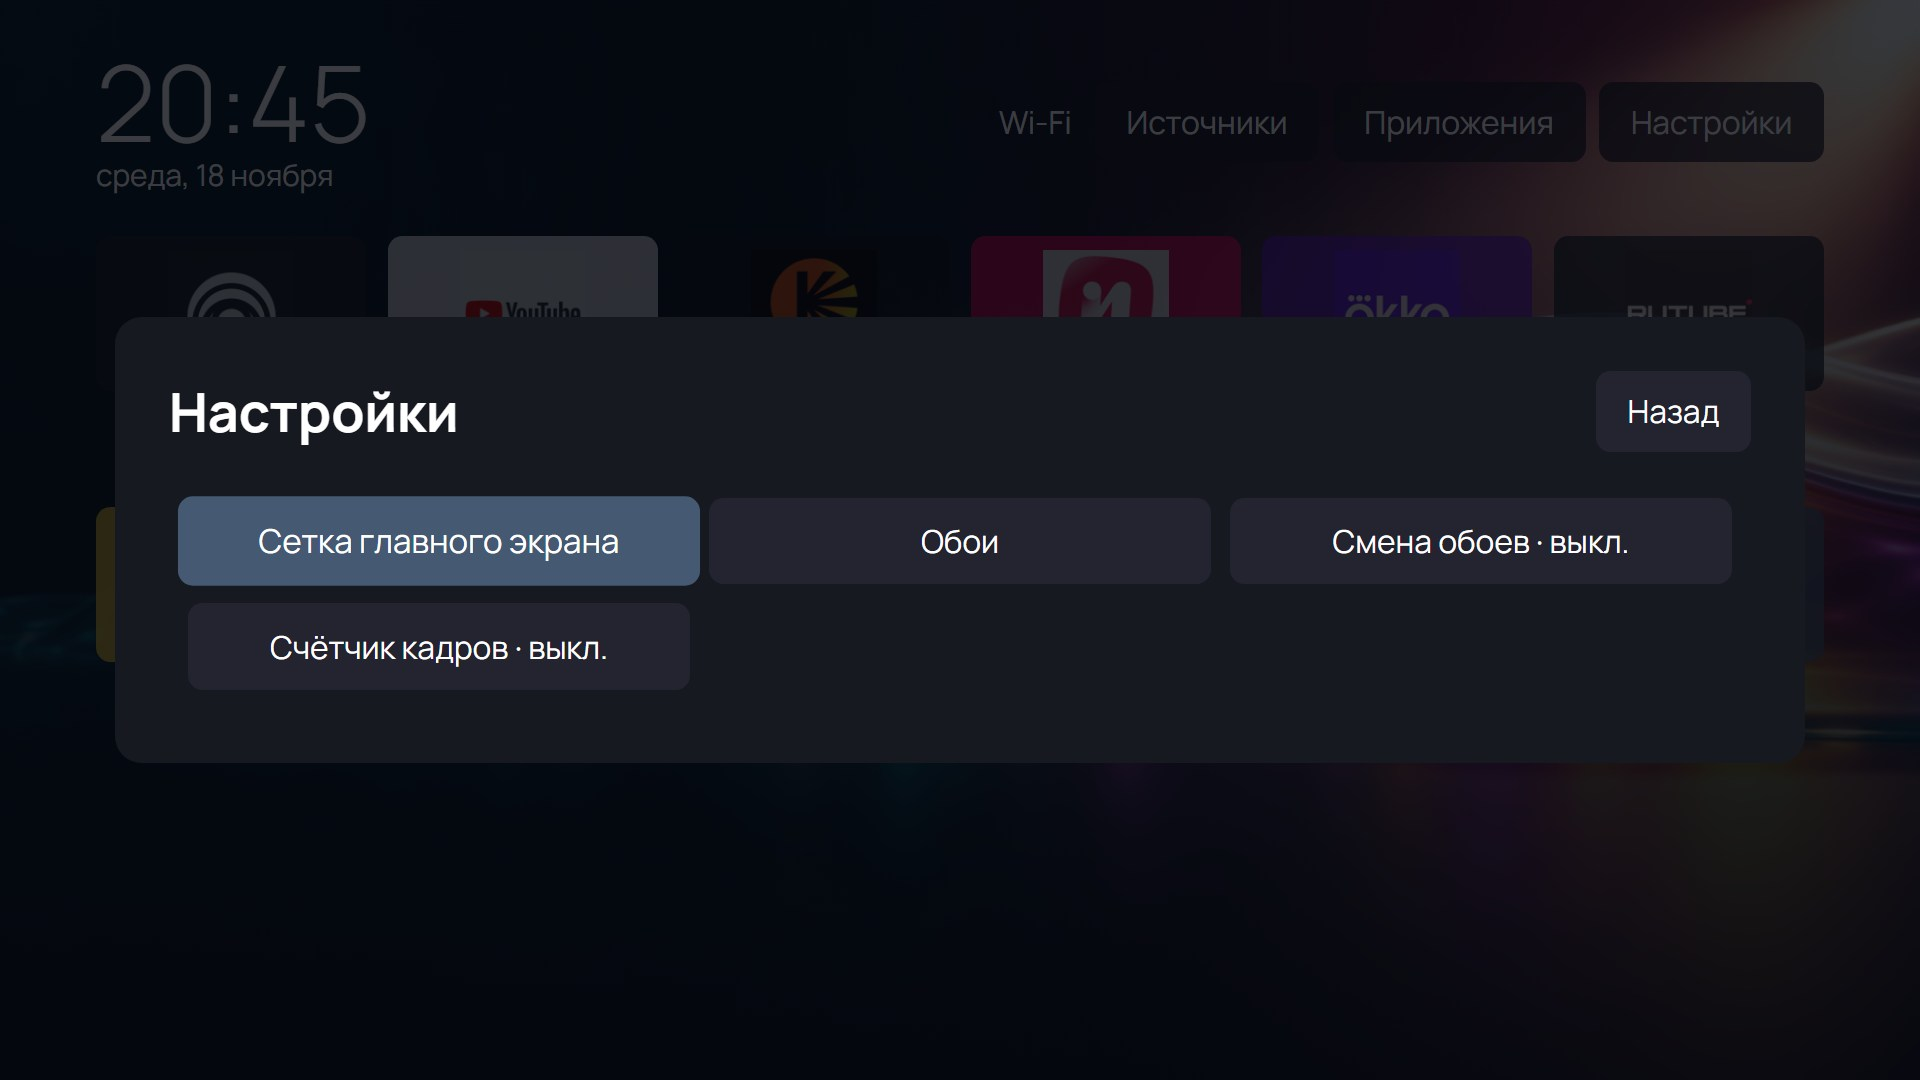
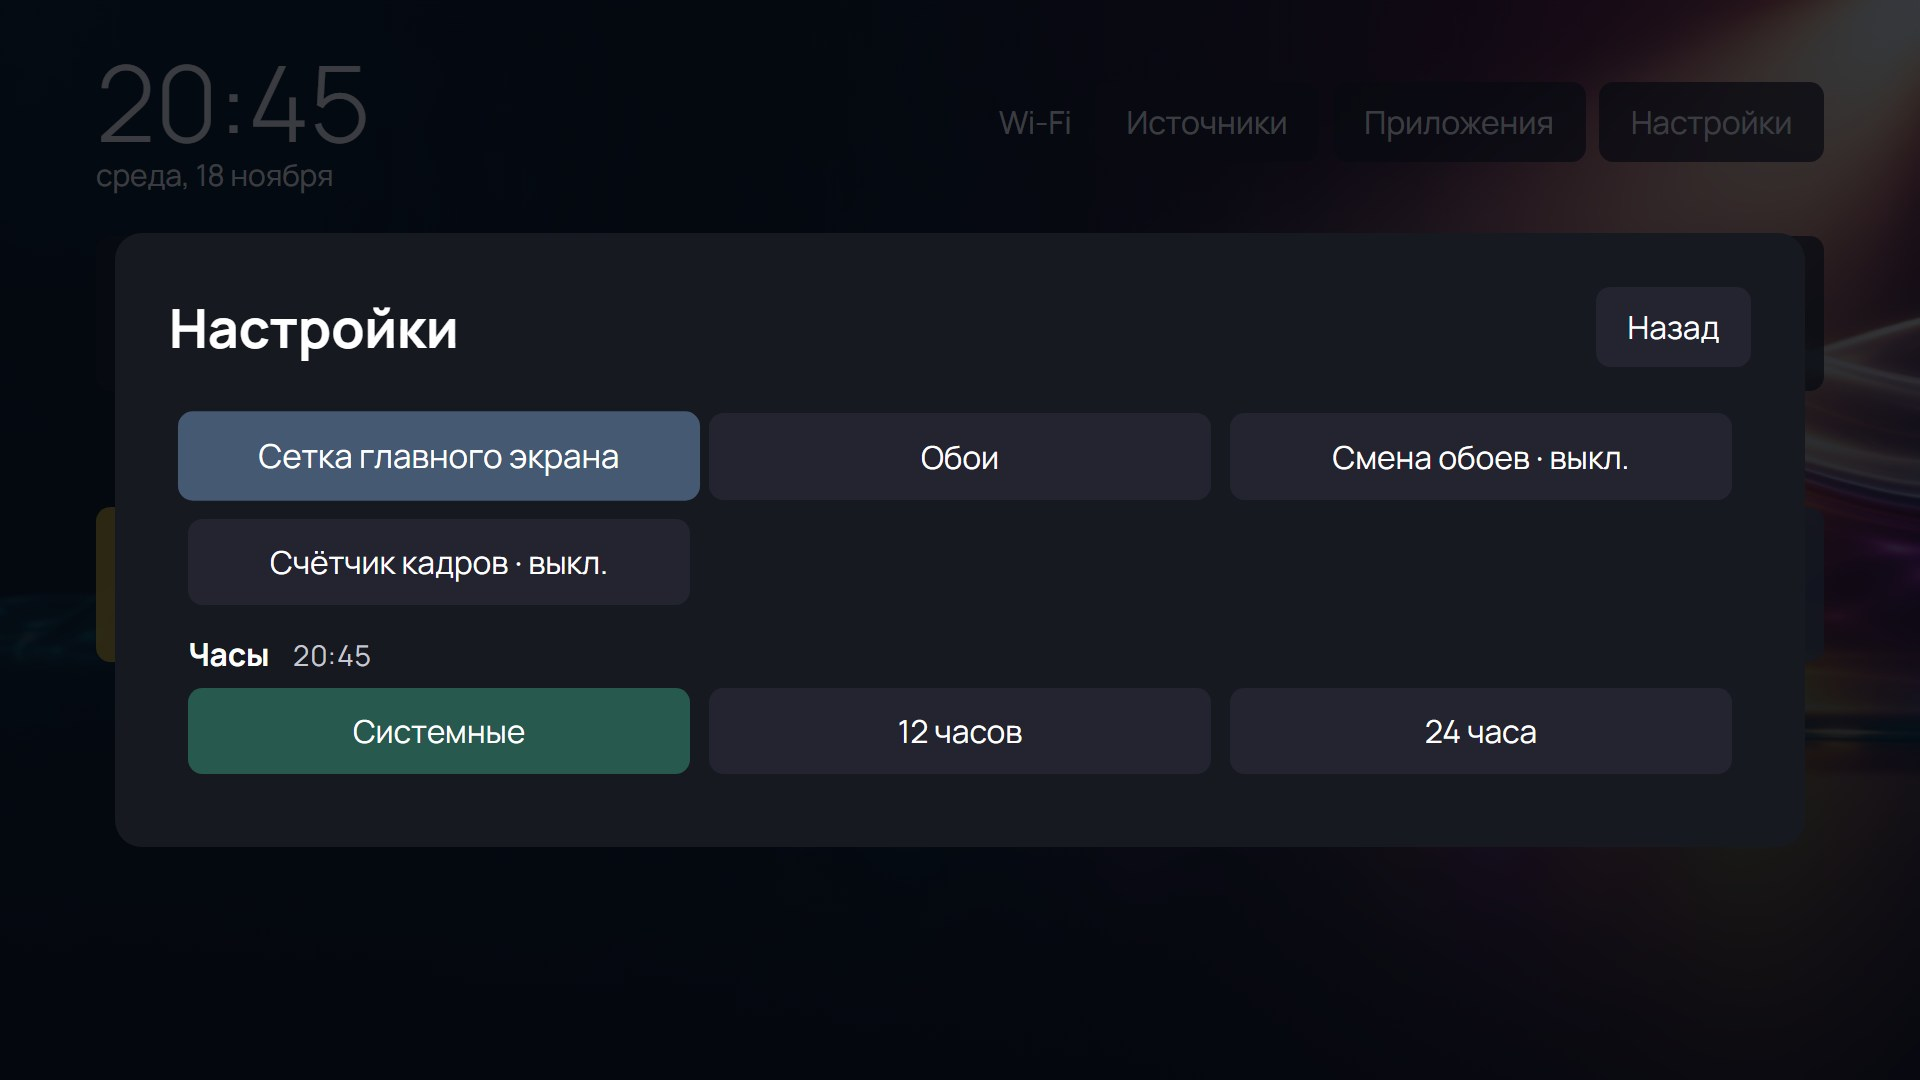
Restore clock format controls and live time preview on Android TV and webOS

diff --git a/webos/app/app.js b/webos/app/app.js
@@ -140,9 +140,66 @@
       if (view==='inputs') showInputs();
     });
   }
+  var systemClock, formatLocale, clockRevision=0, clockWrite=Promise.resolve();
+  function selectedClock() {
+    return pref.clockFormat==='12' || pref.clockFormat==='24' ? pref.clockFormat : 'system';
+  }
+  function formattedTime(date) {
+    var mode=selectedClock();
+    if(mode==='system')mode=systemClock;
+    var options={hour:'numeric',minute:'2-digit'};
+    var hours=date.getHours(), minutes=('0'+date.getMinutes()).slice(-2);
+    if(mode==='24')return ('0'+hours).slice(-2)+':'+minutes;
+    if(mode==='12')return (hours%12 || 12)+':'+minutes+(hours<12?' AM':' PM');
+    return date.toLocaleTimeString(formatLocale || undefined,options);
+  }
+  async function refreshClockFormat() {
+    var revision=++clockRevision;
+    try {
+      if(device) {
+        await clockWrite;
+        var info=await device.clock();
+        if(revision!==clockRevision)return;
+        pref.clockFormat=info.mode;
+        systemClock=info.system;
+      } else {
+        var reply=await service('getSystemSettings',{keys:['localeInfo']},'luna://com.webos.settingsservice');
+        if(revision!==clockRevision)return;
+        var locale=reply.settings && reply.settings.localeInfo;
+        if(locale) {
+          systemClock=locale.clock;
+          var tag=locale.locales && locale.locales.FMT;
+          if(tag) {
+            try {formatLocale=new Intl.DateTimeFormat(tag.replace(/_/g,'-')).resolvedOptions().locale;} catch (_) {}
+          }
+        }
+      }
+    } catch (_) { /* Use the web engine's local format if the platform service is unavailable. */ }
+    clock();
+  }
+  function chooseClock(mode) {
+    if(!device && selectedClock()===mode)return;
+    var revision=++clockRevision;
+    pref.clockFormat=mode;
+    if(device) {
+      clockWrite=clockWrite.then(function(){return device.setClock(mode);}).catch(function(){
+        if(revision===clockRevision) {
+          say('Не удалось сохранить формат часов.');
+          refreshClockFormat();
+        }
+      });
+    } else save();
+    clock();
+  }
   function clock() {
     if(selected && captionTime)captionTime.textContent=elapsed(selected);
-    var d = new Date(); $('time').textContent = d.toLocaleTimeString('ru-RU',{hour:'2-digit', minute:'2-digit',hour12:false});
+    var d = new Date(), shown=formattedTime(d); $('time').textContent=shown;
+    if($('clock-example')) {
+      $('clock-example').textContent=shown;
+      $('clock-options').querySelectorAll('button').forEach(function(el){
+        el.setAttribute('aria-pressed',String(el.dataset.mode===selectedClock()));
+      });
+    }
     $('date').textContent = d.toLocaleDateString('ru-RU',{weekday:'long',day:'numeric',month:'long'});
   }
   function wallpaper(index) { $('wall').style.backgroundImage = 'url("assets/'+walls[index][0]+'.jpg")'; }
@@ -386,6 +443,15 @@
     var rotate=button(row,rotationLabel(),function () {pref.rotate=pref.rotate===false;save();restartWalls();rotate.textContent=rotationLabel();});
     var meter=button(row,fpsLabel(),function () {pref.fps=!pref.fps;save();meter.textContent=fpsLabel();updateMeter();});
     if(device)button(row,'Дополнительно · Android',androidSettings);
+    var group=document.createElement('section');group.className='clock-settings';
+    group.setAttribute('aria-label','Формат часов');page.appendChild(group);
+    var title=document.createElement('h3');title.textContent='Часы';group.appendChild(title);
+    var example=document.createElement('time');example.id='clock-example';title.appendChild(example);
+    var options=grid(group);options.id='clock-options';
+    [['system','Системные'],['12','12 часов'],['24','24 часа']].forEach(function(choice){
+      var el=button(options,choice[1],function(){chooseClock(choice[0]);});el.dataset.mode=choice[0];
+    });
+    clock();
     first(page);
   }
   var draftColumns, startupAvailable=false;
@@ -611,7 +677,7 @@
   $('back').onclick=back;$('inputs').onclick=function () {open('inputs',showInputs);};
   $('library').onclick=function () {open('library',library);};$('settings').onclick=function () {open('settings',settings);};
   if(device)window.cleanHomeCommand=function(command){
-    if(command==='refresh'){network();scan(false,true);return;}
+    if(command==='refresh'){network();refreshClockFormat();scan(false,true);return;}
     if(command==='back'){back();return;}
     if(command==='home'){if(view)close();var firstTile=homeTiles()[0];if(firstTile)firstTile.focus();return;}
     if(command==='inputs')open('inputs',showInputs);
@@ -621,7 +687,7 @@
   };
   applyColumns(pref.gridColumns);
   window.addEventListener('resize',function(){applyColumns(view==='grid-settings'?draftColumns:pref.gridColumns);if(view==='grid-settings')updateGridControl();});
-  network();clock();setInterval(clock,15000);restartWalls();updateMeter();renderHome(false);scan();
+  network();clock();refreshClockFormat();setInterval(clock,15000);restartWalls();updateMeter();renderHome(false);scan();
   setInterval(function(){if(!document.hidden && live && live.paired())scan(false,true);},30000);
-  document.addEventListener('visibilitychange',function () {updateMeter();if(!document.hidden){network();clock();scan();}});
+  document.addEventListener('visibilitychange',function () {updateMeter();if(!document.hidden){network();clock();refreshClockFormat();scan();}});
 })();

diff --git a/webos/app/scene.css b/webos/app/scene.css
@@ -82,3 +82,8 @@ nav button:focus,.sheet button:focus{color:white}
 .grid-controls input{flex:1;min-width:5vw;height:2vw;cursor:pointer}
 .grid-controls input:focus{outline:.18vw solid white;outline-offset:.16vw}
 .grid-controls output{min-width:6.5em;text-align:center;font-variant-numeric:tabular-nums}
+
+.clock-settings{margin-top:1.4vw}
+.clock-settings h3{display:flex;align-items:baseline;margin:0 0 .6vw;font-size:1.65vw}
+#clock-example{margin-left:.8em;color:#c6c7d0;font-variant-numeric:tabular-nums;font-size:.9em;font-weight:400}
+#clock-options button[aria-pressed="true"]{background-color:#28594f;color:#fff}

diff --git a/app/src/main/assets/scene/android.js b/app/src/main/assets/scene/android.js
@@ -15,6 +15,8 @@
     return response.json();
   }
   window.cleanHomeDevice={
+    clock:function(){return request('clock');},
+    setClock:function(mode){return request('clock/'+encodeURIComponent(mode),'POST');},
     catalog:function(){return request('catalog');},
     service:function(method,params){
       if(method==='launch')return request('launch/'+encodeURIComponent(params.id),'POST');

diff --git a/app/src/main/java/com/gathin/tvhome/SharedTvScene.java b/app/src/main/java/com/gathin/tvhome/SharedTvScene.java
@@ -1,5 +1,7 @@
 package com.gathin.tvhome;
 
+import android.content.Context;
+
 import android.annotation.SuppressLint;
 import android.content.ComponentName;
 import android.content.Intent;
@@ -96,6 +98,12 @@ final class SharedTvScene extends WebView {
             String action = path.get(1);
             if ("GET".equals(request.getMethod())) {
                 if ("catalog".equals(action)) return json(catalog());
+                if ("clock".equals(action)) {
+                    String mode = owner.getSharedPreferences(Config.SETTINGS_NAME, Context.MODE_PRIVATE)
+                            .getString(Config.CLOCK_FORMAT_KEY, config.clockFormat);
+                    return json(new JSONObject().put("mode", mode)
+                            .put("system", ClockFormat.is24(owner, "system") ? "24" : "12"));
+                }
                 if ("network".equals(action)) return json(network());
                 if ("icon".equals(action) && path.size()==3) return icon(path.get(2));
             } else if ("POST".equals(request.getMethod())) {
@@ -103,6 +111,11 @@ final class SharedTvScene extends WebView {
                 FutureTask<Boolean> task = new FutureTask<>(() -> {
                     if (owner.isFinishing() || owner.isDestroyed()) return false;
                     switch (action) {
+                        case "clock":
+                            if (!"system".equals(id) && !"12".equals(id) && !"24".equals(id)) return false;
+                            owner.getSharedPreferences(Config.SETTINGS_NAME, Context.MODE_PRIVATE)
+                                    .edit().putString(Config.CLOCK_FORMAT_KEY, id).apply();
+                            return true;
                         case "launch": return launch(id);
                         case "settings": owner.startActivity(SystemSettings.intent(owner,android.provider.Settings.ACTION_SETTINGS)); return true;
                         case "home-settings": owner.startActivity(new Intent(owner,HomeSettingsActivity.class)); return true;

diff --git a/app/src/main/java/com/gathin/tvhome/LauncherSettingsActivity.java b/app/src/main/java/com/gathin/tvhome/LauncherSettingsActivity.java
@@ -12,7 +12,6 @@ import android.graphics.BitmapFactory;
 import android.graphics.drawable.GradientDrawable;
 import android.os.Bundle;
 import android.provider.Settings;
-import android.text.format.DateFormat;
 import android.view.Gravity;
 import android.view.View;
 import android.view.ViewGroup;
@@ -59,6 +58,7 @@ public final class LauncherSettingsActivity extends Activity {
     private File previewFile;
     private Bitmap previewBitmap;
     private LinearLayout previewStack;
+    private TextView previewClock;
     private int previewColumns = -1;
     private int columns;
     private String clockFormat;
@@ -347,6 +347,8 @@ public final class LauncherSettingsActivity extends Activity {
         if (previewStack == null || previewColumns != columns) {
             buildPreview(screen);
         }
+        String pattern = ClockFormat.is24(this, clockFormat) ? "HH:mm" : "h:mm a";
+        previewClock.setText(new SimpleDateFormat(pattern, Locale.getDefault()).format(new Date()));
     }
 
     /** Rebuilds the miniature when the column count changes. */
@@ -356,7 +358,7 @@ public final class LauncherSettingsActivity extends Activity {
         previewColumns = columns;
 
         TextView clock = new TextView(this);
-        clock.setText(DateFormat.getTimeFormat(this).format(new Date()));
+        previewClock = clock;
         clock.setTextSize(22);
         clock.setTextColor(0xFFF4F8FB);
         FrameLayout.LayoutParams clockParams = new FrameLayout.LayoutParams(

diff --git a/docs/STATE-MACHINES.md b/docs/STATE-MACHINES.md
@@ -12,6 +12,12 @@
 
 Библиотека содержит обнаруженные приложения. Главная показывает выбранное пользователем подмножество. Общая сцена хранит настройки в локальном хранилище `cleanhome.scene.v1`. В `homeApps` отсутствие списка означает автоматическое наполнение, пустой список означает, что пользователь убрал все карточки. В `libraryOrder` хранится ручной порядок библиотеки. При обновлении каталога выбор и порядок восстанавливаются по идентификаторам приложений.
 
+## Настройки сцены
+
+На LG и Android с WebView доступны число колонок, обои, автоматическая смена обоев, счётчик кадров и формат часов. Дополнительные действия Android открывают системные экраны и параметры запуска, доступные на устройстве.
+
+На Android выбор часов хранится в тех же настройках, которые читает нативная сетка. На LG выбор хранится локально в сцене. При выборе «Системные» Android сообщает формат через `DateFormat.is24HourFormat`, а LG возвращает режим часов и регион из `localeInfo`. При возвращении в приложение сцена перечитывает эти значения. [Settings Service webOS](https://webostv.developer.lge.com/develop/references/settings-service)
+
 ## Редактор порядка
 
 Удержание OK на карточке открывает редактор с уже поднятой карточкой. Стрелки перемещают её, короткое OK кладёт на место. Можно продолжить перестановку с другой карточкой или перетащить её указателем. «Готово» записывает изменённый порядок, отмена возвращает сохранённый. После смены экрана отпускание кнопки должно завершить исходный жест.

diff --git a/webos/README.md b/webos/README.md
@@ -46,6 +46,7 @@
 | Выбрать приложения для главной | В «Приложениях» выберите карточку, затем «Добавить на главную» или «Убрать с главной». Приложение остаётся в библиотеке. |
 | Расставить карточки стрелками | На главной или в библиотеке удерживайте OK на карточке примерно полсекунды. Когда откроется «Порядок приложений», отпустите OK, переместите карточку стрелками и нажмите OK, чтобы положить её. В библиотеке также доступна кнопка «Изменить порядок». Повторите для других карточек и выберите «Готово». «Отмена» возвращает прежний порядок. |
 | Перетащить указателем | Наведите указатель Magic Remote на карточку главной или библиотеки, удерживайте OK до появления сортировки, перетащите карточку и отпустите. Переместите остальные и нажмите «Готово». |
+| Изменить формат часов | В «Настройки → Часы» выберите «Системные», «12 часов» или «24 часа». Текущее время рядом с переключателем показывает результат. Системный формат учитывает настройки часов и регион телевизора. [Служба настроек LG](https://webostv.developer.lge.com/develop/references/settings-service) |
 | Выбрать вход или фон | «Источники» показывает доступные входы. В «Настройках» можно выбрать обои и включить смену фона. |
 | Снова открыть CleanHome | На проверенном LG кнопка Home ведёт на системный экран webOS. Оттуда выберите CleanHome TV в списке приложений. |
 

diff --git a/README.md b/README.md
@@ -16,6 +16,7 @@
 ## Главная и каталог
 
 - **Сетка на главной.** В «Настройки → Сетка главного экрана» выберите число плиток в ряду стрелками. Размер карточек сразу меняется на главной. «Авто» подбирает число колонок по ширине экрана. Под выбранной карточкой видны название и время последнего запуска из CleanHome.
+- **Часы.** В «Настройки → Часы» доступны системный, 12- и 24-часовой форматы. Рядом с переключателем сразу видно текущее время в выбранном формате. Выбор сохраняется после перезапуска.
 - **Каталог с телевизора.** После однократного разрешения CleanHome получает установленные приложения и их значки. Когда вы ставите или удаляете приложение, каталог обновляется на LG без участия компьютера.
 - **Запуск на webOS.** CleanHome TV появляется среди приложений LG. Кнопка Home на проверенном телевизоре открывает системный экран LG.
 
